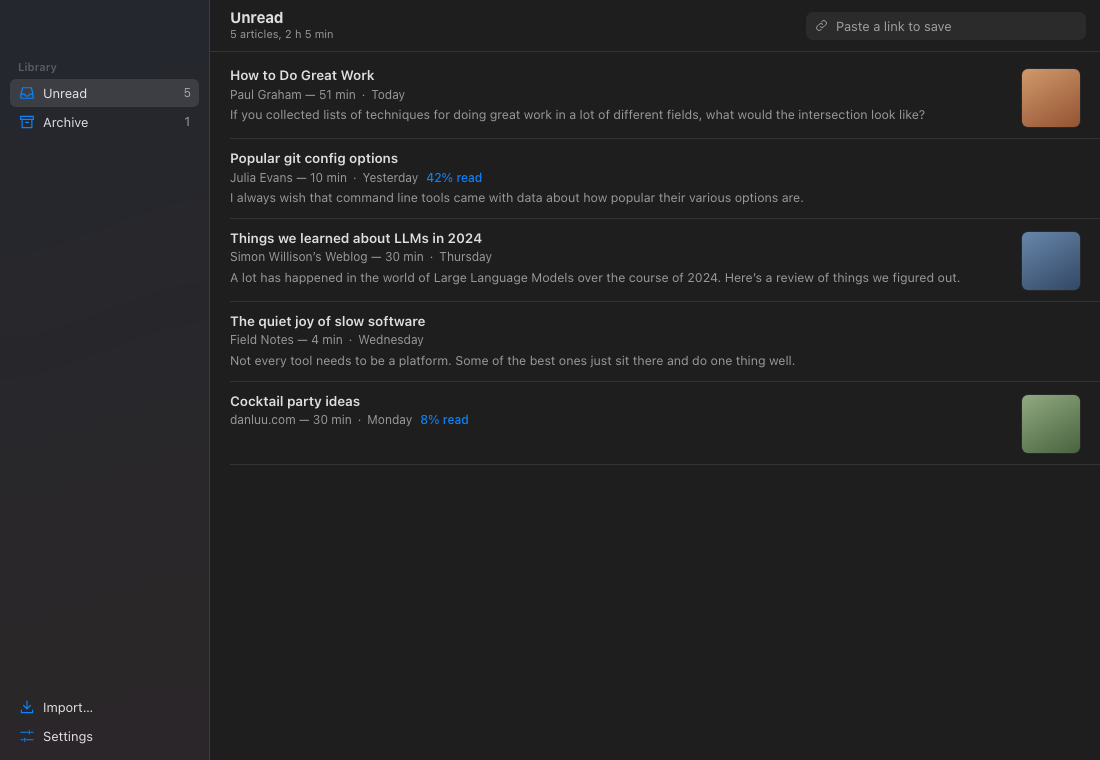
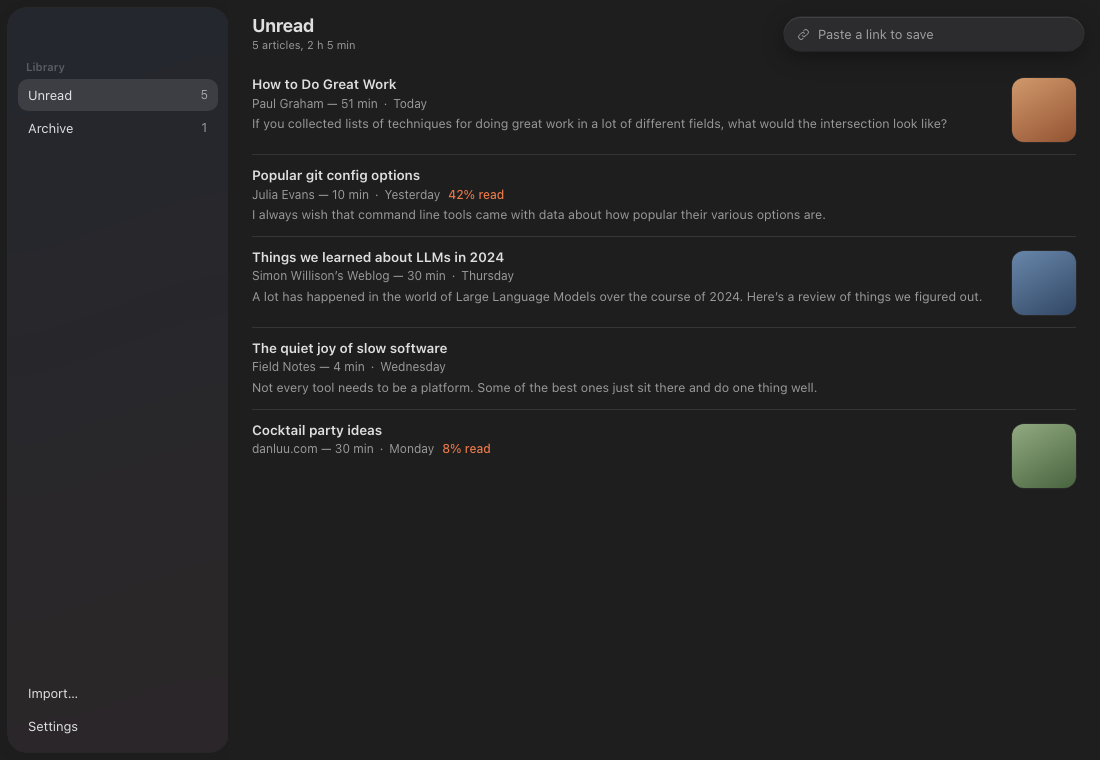
Release 0.1.0: Mac .dmg, release builds on version tags, download notes

diff --git a/README.md b/README.md
@@ -8,7 +8,9 @@ A calm read-later app for Mac and Windows. Save an article, read it later, offli
 - **Your library is a folder of plain files.** Put it in Dropbox, iCloud Drive or OneDrive to sync between computers. You can open the files without the app.
 - **Small and fast.** Built with [Tauri](https://tauri.app), not a bundled Chrome.
 
-> **Status:** early. Saving (paste a link, or the browser extension), importing from Pocket, Omnivore and Instapaper, the reading list and the reader work. Windows builds come next.
+**[Download Readbox](https://github.com/anon5376/readbox/releases/latest)** for Mac (.dmg) or Windows (.exe). It isn't signed with a paid developer certificate yet, so the first time you open it: on a Mac go to **System Settings → Privacy & Security → Open Anyway**; on Windows click **More info → Run anyway**.
+
+> **Status:** early. Saving (paste a link, or the browser extension), importing from Pocket, Omnivore and Instapaper, the reading list and the reader work.
 
 > **Built with AI.** Most of the code is written by AI coding agents, directed and tested by a human. Bugs are likely at this stage; please open an issue.
 
@@ -24,7 +26,7 @@ A calm read-later app for Mac and Windows. Save an article, read it later, offli
 
 ## Moving from Pocket, Omnivore or Instapaper
 
-Open **Settings → Import from Pocket, Omnivore or Instapaper…** and choose the file you downloaded from them (Pocket's `.csv`/`.zip`/`.html`, Omnivore's `.zip`, Instapaper's `.csv`). Readbox keeps each article's original date, whether you'd archived it, and Omnivore's reading position. It uses the article text from Omnivore exports and downloads everything else; articles that are gone from the web are kept as a title and link. `samples/pocket-sample.csv` is a small file to try it with.
+Open **Settings → Import → Choose File…** and choose the file you downloaded from them (Pocket's `.csv`/`.zip`/`.html`, Omnivore's `.zip`, Instapaper's `.csv`). Readbox keeps each article's original date, whether you'd archived it, and Omnivore's reading position. It uses the article text from Omnivore exports and downloads everything else; articles that are gone from the web are kept as a title and link. `samples/pocket-sample.csv` is a small file to try it with.
 
 ## Browser extension
 

diff --git a/docs/releases/v0.1.0.md b/docs/releases/v0.1.0.md
@@ -1,0 +1,20 @@
+The first public version of Readbox: a calm read-later app for Mac and Windows with no account and no server. Everything you save is plain files in a folder on your computer.
+
+**What works**
+- Save a link by pasting it, or save the page you're on with the browser extension (Firefox, Chrome, Brave, Edge, Helium).
+- Read offline in a clean reader with adjustable text, width and page colour (white, sepia, night).
+- Import your list from Pocket, Omnivore or Instapaper.
+- Keep the library folder in iCloud Drive, Dropbox or OneDrive to sync between computers.
+
+**Download**
+- **Mac:** `Readbox_0.1.0_universal.dmg` (Apple Silicon and Intel, macOS 11 or later)
+- **Windows:** `Readbox_0.1.0_x64-setup.exe`
+- **Browser extension:** `Readbox-browser-extension.zip`. Unzip it, then follow [the install steps](https://github.com/anon5376/readbox#browser-extension).
+
+**Opening it the first time**
+Readbox isn't signed with a paid Apple or Microsoft developer certificate yet, so both systems warn you once:
+- **Mac:** open the .dmg and drag Readbox into Applications. Open it; when macOS says it can't check it, go to **System Settings → Privacy & Security**, scroll down and click **Open Anyway**.
+- **Windows:** if SmartScreen appears, click **More info → Run anyway**.
+
+**Good to know**
+This is early software, written mostly by AI coding agents and tested by a human. Expect rough edges, and please [report anything that breaks](https://github.com/anon5376/readbox/issues).
